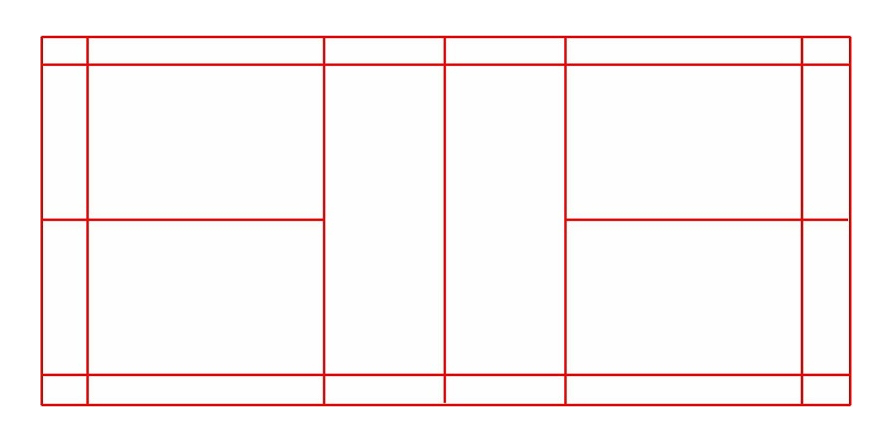
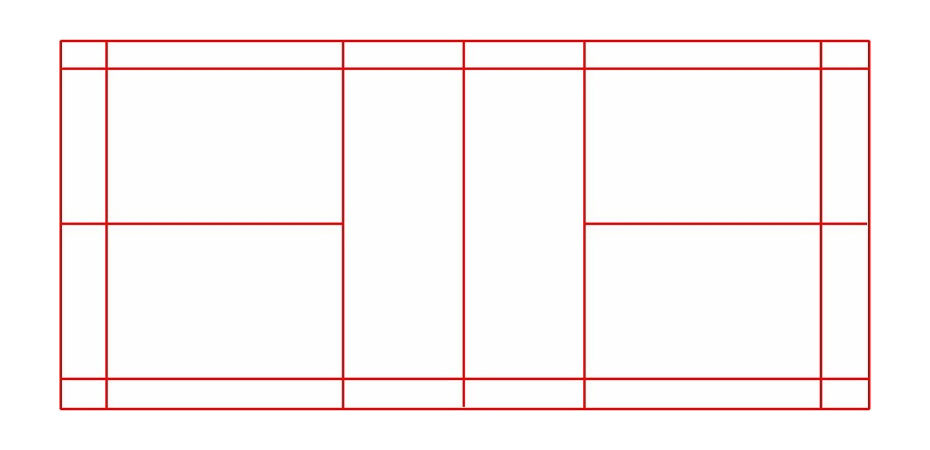
modify court size and label

Changed region(s): [[0.0302, 0.0588, 0.9675, 0.9412]]

diff --git a/js/realdata.js b/js/realdata.js
@@ -752,13 +752,13 @@ function init_court_distribution(minrally,maxrally,set){
     $('#total_court .playerB').html('<div class="subtitle">選手B失分分佈</div>\
     <img id="badminton_courtB" src="../image/badminton_court.jpg" class="img-fluid" width="100%"/>');
 
-    var oriw = 893;
-    var orih = 442
+    var oriw = 930;
+    var orih = 450;
     var imgA = document.getElementById("badminton_courtA");
     var canv = document.createElement('canvas');
     canv.id = 'total_court_chartA';
     canv.width = imgA.width;
-    canv.height = orih/oriw*imgA.width;         //ori height is 442,ori width is 893,need get ori img size
+    canv.height = orih/oriw*imgA.width;         //ori height is 450,ori width is 930,need get ori img size
     document.getElementById("total_court").getElementsByClassName("playerA")[0].appendChild(canv);
     var canvA = document.getElementById("total_court_chartA");
     canvA.style.position = "absolute";
@@ -831,34 +831,36 @@ function init_court_distribution(minrally,maxrally,set){
         }
 
         var court = new Object();
-        var brutew = 41/oriw*canvA.width;
-        var bruteh = 37/orih*canvA.height;
+        var coord_orix = 935;
+        var coord_oriy = 424;
+        var brutew = 61/oriw*canvA.width;
+        var bruteh = 41/orih*canvA.height;
         court.xarea = ['1','2','3','4','5'];
         court.yarea = ['A','B','C','D','E','F'];
-        court.xcoord_back = [[328,468],[190,328],[53,190],[0,53],[-100,0]];
+        court.xcoord_back = [[328,468],[190,328],[53,190],[0,53],[-50,0]];
         court.xcoord_back = court.xcoord_back.map(function(item){
-            return [parseInt(item[0]/935*(canvA.width-2*brutew)+brutew),parseInt(item[1]/935*(canvA.width-2*brutew)+brutew)];
+            return [parseInt(item[0]/coord_orix*(canvA.width-2*brutew)+brutew),parseInt(item[1]/coord_orix*(canvA.width-2*brutew)+brutew)];
         });
         court.ycoord_back = [[32,212],[212,392],[0,32],[392,424],[-50,0],[424,500]];
         court.ycoord_back = court.ycoord_back.map(function(item){
-            return [parseInt(item[0]/424*(canvA.height-2*bruteh)+bruteh),parseInt(item[1]/424*(canvA.height-2*bruteh)+bruteh)];
+            return [parseInt(item[0]/coord_oriy*(canvA.height-2*bruteh)+bruteh),parseInt(item[1]/coord_oriy*(canvA.height-2*bruteh)+bruteh)];
         });
 
         court.xcoord_front = [[468,608],[608,745],[745,882],[882,935],[935,955]];
         court.xcoord_front = court.xcoord_front.map(function(item){
-            return [parseInt(item[0]/935*(canvB.width-2*brutew)+brutew),parseInt(item[1]/935*(canvB.width-2*brutew)+brutew)];
+            return [parseInt(item[0]/coord_orix*(canvB.width-2*brutew)+brutew),parseInt(item[1]/coord_orix*(canvB.width-2*brutew)+brutew)];
         });
         court.yarea = ['A','B','C','D','E','F'];
         court.ycoord_front = [[212,392],[32,212],[392,424],[0,32],[424,500],[-50,0]];
         court.ycoord_front = court.ycoord_front.map(function(item){
-            return [parseInt(item[0]/424*(canvB.height-2*bruteh)+bruteh),parseInt(item[1]/424*(canvB.height-2*bruteh)+bruteh)];
+            return [parseInt(item[0]/coord_oriy*(canvB.height-2*bruteh)+bruteh),parseInt(item[1]/coord_oriy*(canvB.height-2*bruteh)+bruteh)];
         });
 
         // console.log(canvA.width);
         // console.log(canvA.height);
         // console.log(court);
-        console.log(sum_dataA);
-        console.log(sum_dataB);
+        // console.log(sum_dataA);
+        // console.log(sum_dataB);
 
         //render rectangle ratio area over image
         for(var i = 0;i<sum_dataA.value.length;i++){
@@ -900,7 +902,7 @@ function init_court_distribution(minrally,maxrally,set){
                 ctxA.fillStyle = "rgb(255,255,255)";
                 ctxA.textAlign = "center"; 
                 ctxA.textBaseline = "middle";
-                ctxA.strokeText(sum_dataA.area[i] + '=' + ratio,topX+w/2,topY+h/2);
+                ctxA.strokeText(ratio,topX+w/2,topY+h/2);
             }
             if (sum_dataA.selfout[i] != 0){
                 var ratio = (sum_dataA.selfout[i]/sumA).toFixed(2);
@@ -924,7 +926,7 @@ function init_court_distribution(minrally,maxrally,set){
                 ctxA.fillStyle = "rgb(255,255,255)";
                 ctxA.textAlign = "center"; 
                 ctxA.textBaseline = "middle";
-                ctxA.strokeText(sum_dataA.area[i] + '=' + ratio,topX+w/2,topY+h/2);
+                ctxA.strokeText(ratio,topX+w/2,topY+h/2);
             }
         }
 
@@ -967,7 +969,7 @@ function init_court_distribution(minrally,maxrally,set){
                 ctxB.fillStyle = "rgb(255,255,255)";
                 ctxB.textAlign = "center"; 
                 ctxB.textBaseline = "middle";
-                ctxB.strokeText(sum_dataB.area[i] + '=' + ratio,topX+w/2,topY+h/2);
+                ctxB.strokeText(ratio,topX+w/2,topY+h/2);
             }
             if (sum_dataB.selfout[i] != 0){
                 var ratio = (sum_dataB.selfout[i]/sumB).toFixed(2);
@@ -991,7 +993,7 @@ function init_court_distribution(minrally,maxrally,set){
                 ctxA.fillStyle = "rgb(255,255,255)";
                 ctxA.textAlign = "center"; 
                 ctxA.textBaseline = "middle";
-                ctxA.strokeText(sum_dataB.area[i] + '=' + ratio,topX+w/2,topY+h/2);
+                ctxA.strokeText(ratio,topX+w/2,topY+h/2);
             }
         }
     })
